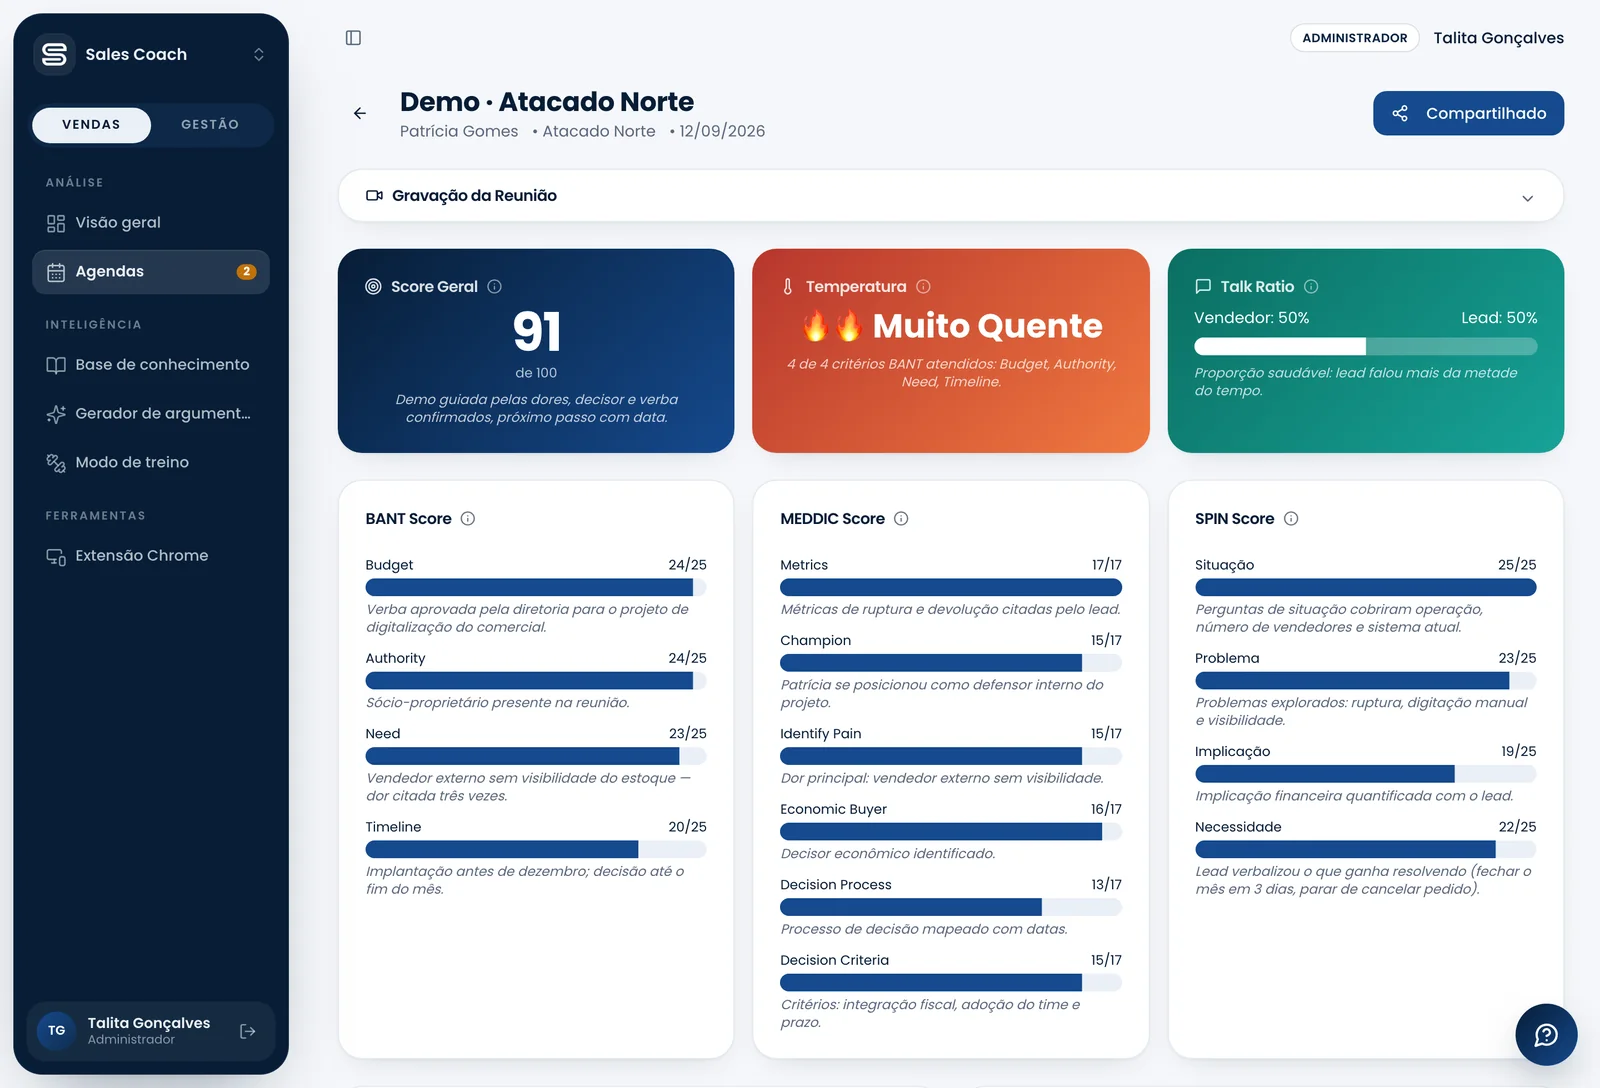
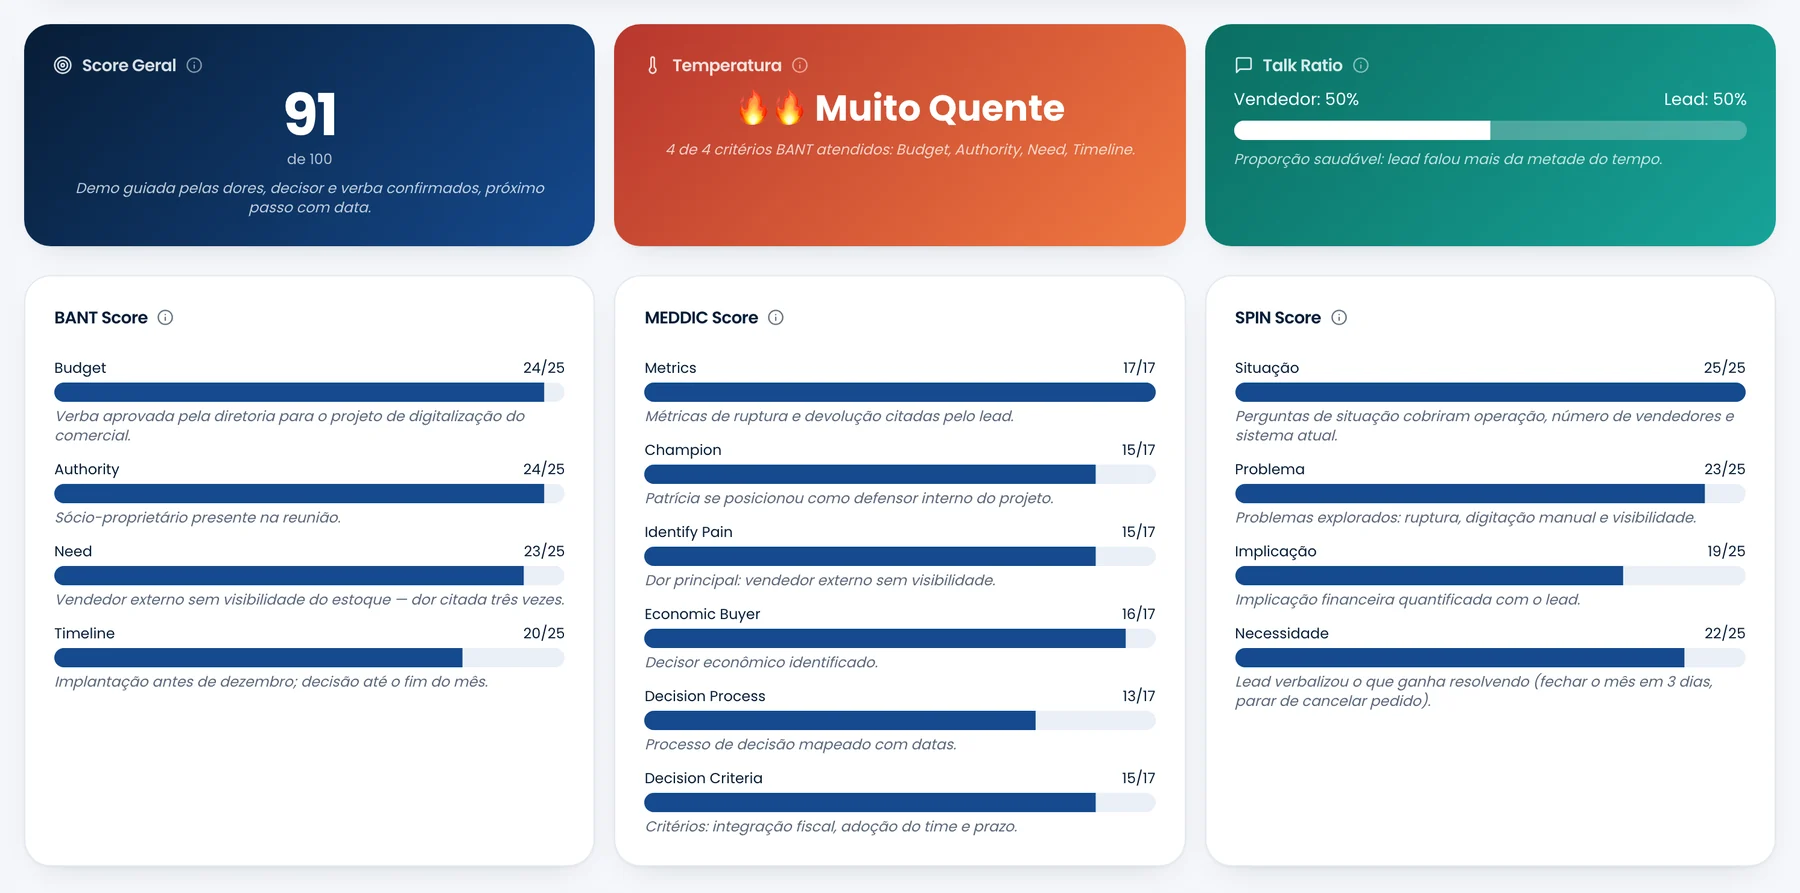
Site: seções claras, imagens grandes com recorte limpo e parallax em camadas
O bloco de produto estava com todas as seções escuras, capturas pequenas e
recortes que cortavam cabeçalho e barra lateral pela metade.

- Capturas refeitas por recorte calculado sobre a caixa dos próprios
  cartões (menu recolhido, viewport 1600), sem nada cortado ao meio e em
  tamanho legível
- Três faixas claras (Produto, Treino, Recursos) alternando com as escuras,
  com transição em degradê — as telas do sistema são claras e agora
  pertencem à página em vez de flutuarem como retângulos brancos
- Imagens saem da coluna de texto: faixas de até 1680px
- Parallax em camadas: texto e imagem se movem em sentidos opostos, com
  selos flutuantes sobre as capturas em ritmo próprio; desligado no mobile
- Listas em .stage-row tinham perdido o marcador personalizado

diff --git a/index.html b/index.html
@@ -45,7 +45,7 @@
   .eyebrow::before { content: ""; width: 26px; height: 1px; background: var(--glow); box-shadow: 0 0 12px var(--glow); }
   .h2 { font-size: clamp(30px, 4.4vw, 56px); font-weight: 700; }
   .lead { font-size: 18px; color: var(--ink-soft); max-width: 58ch; }
-  section { position: relative; padding-block: 120px; }
+  section { position: relative; padding-block: 104px; }
   @media (max-width: 720px) { section { padding-block: 80px; } }
   html, body { overflow-x: clip; }
 
@@ -246,6 +246,66 @@
   .duo { display: grid; grid-template-columns: 1fr 1fr; gap: 24px; align-items: start; margin-top: 46px; }
   @media (max-width: 900px) { .duo { grid-template-columns: 1fr; } }
   .cap-label { margin-top: 12px; font-size: 13px; color: var(--ink-faint); }
+
+
+  /* ── Seções claras: quebram a sequência de blocos escuros e fazem as
+        capturas do sistema (que são claras) parecerem parte da página ── */
+  .paper { background: #EFF3FA; color: #16233A; position: relative; }
+  .paper::before, .paper::after { content: ""; position: absolute; left: 0; right: 0; height: 120px; pointer-events: none; }
+  .paper::before { top: -120px; background: linear-gradient(180deg, var(--navy-0), #EFF3FA); }
+  .paper::after { bottom: -120px; background: linear-gradient(180deg, #EFF3FA, var(--navy-0)); }
+  .paper .h2, .paper h3 { color: #071A34; }
+  .paper .lead, .paper p { color: #4B5A73; }
+  .paper .hl { color: #15498D; -webkit-text-fill-color: currentColor; background: none; }
+  .paper .tag b { color: #15498D; }
+  .paper .tag span { color: #56657F; }
+  .paper .tag i { background: linear-gradient(90deg, #C3D1E6, transparent); }
+  .paper li { color: #1F2D44; }
+  .paper .split li::before { background: #15498D; box-shadow: none; }
+  .paper .note { color: #6B7A93; }
+  .paper .cap-label { color: #6B7A93; }
+  .paper.caps { background: #EFF3FA; }
+  .paper .cap { border-color: rgba(7,26,52,.10); background: #fff; }
+  .paper .hs-slide.active .cap { border-color: rgba(21,73,141,.35); background: linear-gradient(180deg, rgba(21,73,141,.07), #fff); box-shadow: 0 26px 50px -34px rgba(7,26,52,.5); }
+  .paper .cap .idx { color: #15498D; }
+  .paper .cap h3 { color: #071A34; }
+  .paper .cap p { color: #4B5A73; }
+  .paper .hs-count b { color: #071A34; }
+  .paper .hs-count { color: #7A8AA3; }
+  .paper .hs-bar { background: rgba(7,26,52,.12); }
+  .paper .hs-hint { color: #7A8AA3; }
+  .paper .hs-hint i { background: #15498D; }
+  .paper .hs-hint i::after { border-color: #15498D; }
+  .paper .hs-hint i::before { background: #15498D; box-shadow: none; }
+  .paper .frame { border-color: rgba(7,26,52,.10); background: #fff; box-shadow: 0 50px 90px -46px rgba(7,26,52,.55), 0 2px 6px rgba(7,26,52,.06); }
+  .paper .frame::after { box-shadow: none; }
+  .paper .frame-bar { background: #F7F9FD; border-bottom-color: rgba(7,26,52,.08); }
+  .paper .frame-bar i { background: rgba(7,26,52,.14); }
+  .paper .frame-bar span { color: #8494AC; }
+  .paper .shot-glow::before { background: radial-gradient(closest-side, rgba(21,73,141,.16), transparent 70%); }
+
+  /* Faixa larga: a imagem sai da coluna e ocupa quase a tela, tirando o
+     site da monotonia de blocos empilhados do mesmo tamanho. */
+  .bleed { width: min(1460px, 100% - 40px); margin-inline: auto; }
+  .bleed-wide { width: min(1680px, 100% - 32px); margin-inline: auto; }
+
+  /* Selo flutuante sobre a captura, com parallax próprio. */
+  .pin { position: absolute; z-index: 3; display: flex; align-items: center; gap: 10px; padding: 12px 16px; border-radius: 14px; background: rgba(7,26,52,.92); color: #fff; border: 1px solid rgba(143,193,255,.28); box-shadow: 0 24px 50px -22px rgba(0,0,0,.8); font-size: 13px; max-width: 280px; backdrop-filter: blur(8px); }
+  .pin b { color: var(--glow-2); font-weight: 700; }
+  .pin small { display: block; font-size: 10.5px; letter-spacing: .1em; text-transform: uppercase; color: var(--glow-2); font-weight: 700; margin-bottom: 3px; }
+  @media (max-width: 900px) { .pin { position: static; max-width: none; margin-top: 14px; } }
+
+  /* Texto alinhado verticalmente com a imagem grande ao lado. */
+  .stage-row { display: grid; grid-template-columns: .78fr 1.22fr; gap: 64px; align-items: center; }
+  .stage-row.flip .txt { order: 2; }
+  .stage-row h3 { font-size: clamp(26px, 3vw, 40px); font-weight: 700; letter-spacing: -.02em; }
+  .stage-row ul { margin: 24px 0 0; padding: 0; list-style: none; display: grid; gap: 11px; }
+  .stage-row li { position: relative; padding-left: 24px; font-size: 15.5px; color: var(--ink); }
+  .stage-row li::before { content: ""; position: absolute; left: 0; top: 9px; width: 8px; height: 8px; border-radius: 50%; background: var(--glow); box-shadow: 0 0 10px var(--glow); }
+  .stage-row .note { margin-top: 20px; font-size: 13.5px; color: var(--ink-faint); }
+  .paper .stage-row li::before { background: #15498D; box-shadow: none; }
+  .paper .stage-row li { color: #1F2D44; }
+  @media (max-width: 1000px) { .stage-row, .stage-row.flip { grid-template-columns: 1fr; gap: 34px; } .stage-row.flip .txt { order: 0; } }
 
   /* ── Produto: brilhos de fundo ── */
   .product { overflow: visible; }
@@ -506,139 +566,154 @@
   </div>
 </section>
 
-<!-- ── Produto (capturas reais do sistema) ─────────────────────────────── -->
-<section class="product" id="produto">
-  <div class="bg-glow" style="left:-300px;top:8%" data-px="-0.18" aria-hidden="true"></div>
+<!-- ── Produto: claro, imagens largas, parallax em camadas ───────────────── -->
+<section class="product paper" id="produto">
   <div class="wrap">
     <div class="tag reveal"><b>01</b><span>O produto</span><i></i></div>
-    <div class="reveal">
+    <div class="reveal" data-px="0.03">
       <h2 class="h2">Não é transcrição.<br>É a sua <span class="hl">metodologia</span> aplicada em cada conversa.</h2>
-      <p class="lead" style="margin-top:18px">As telas abaixo são do sistema rodando — não são ilustração.</p>
+      <p class="lead" style="margin-top:18px;max-width:54ch">As telas abaixo são do sistema rodando, com dados de uma operação de demonstração — não são ilustração.</p>
     </div>
+  </div>
 
-    <div class="split reveal" style="margin-top:56px">
-      <div class="txt">
-        <h3>Cada reunião sai com nota, temperatura e o que faltou perguntar</h3>
-        <p class="lead">Minutos depois da conversa, vendedor e gestor veem a mesma coisa: score, temperatura pela metodologia da empresa e cada critério com a justificativa tirada do que o lead disse.</p>
+  <!-- faixa larga: a análise ocupa quase toda a tela -->
+  <div class="bleed-wide reveal" style="margin-top:56px;position:relative">
+    <div class="shot-glow" data-px="0.06">
+      <div class="frame">
+        <div class="frame-bar"><i></i><i></i><i></i><span>Análise da reunião · Demo · Atacado Norte</span></div>
+        <img src="assets/app/analise.webp" alt="Score 91, temperatura muito quente e os critérios BANT, MEDDIC e SPIN, cada um com a justificativa" loading="lazy" width="1800" height="893">
+      </div>
+    </div>
+    <div class="pin" style="left:-28px;bottom:9%" data-px="-0.14"><div><small>Cada nota tem evidência</small>Não é um número solto: é a <b>frase do lead</b> que justifica o critério.</div></div>
+  </div>
+
+  <div class="wrap" style="margin-top:92px">
+    <div class="stage-row reveal">
+      <div class="txt" data-px="0.05">
+        <h3>Nota, temperatura e o que faltou perguntar</h3>
+        <p class="lead">Minutos depois da conversa, vendedor e gestor veem a mesma coisa — e ninguém precisa reabrir a gravação para discordar.</p>
         <ul>
-          <li>BANT, MEDDIC e SPIN prontos — ou os seus critérios, com pesos</li>
-          <li>Cada nota vem com a frase que a justifica, não com um número solto</li>
+          <li>BANT, MEDDIC e SPIN prontos, ou os seus critérios com pesos</li>
           <li>Talk ratio: quanto o vendedor falou e quanto o lead falou</li>
-        </ul>
-      </div>
-      <div class="shot-glow" data-px="0.05">
-        <div class="frame">
-          <div class="frame-bar"><i></i><i></i><i></i><span>Análise da reunião</span></div>
-          <img src="assets/app/analise.webp" alt="Tela de análise de uma reunião: score 91, temperatura muito quente e os critérios BANT, MEDDIC e SPIN com justificativa" loading="lazy" width="1600" height="1088">
-        </div>
-      </div>
-    </div>
-
-    <div class="split flip reveal" style="margin-top:110px">
-      <div class="txt">
-        <h3>O que foi bem, o que faltou e o próximo passo</h3>
-        <p class="lead">A análise não para na nota. Ela aponta o que o vendedor fez certo, o que deixou passar e o que fazer na sequência — e confere se o discurso bateu com o portfólio da empresa.</p>
-        <ul>
-          <li>Oportunidade perdida: o item da base que resolvia a dor e não foi citado</li>
-          <li>Sugestões de cross-sell a partir do que o lead falou</li>
-          <li>Aderência ao portfólio, com preço e prazo conferidos contra a tabela</li>
+          <li>Objeções e sinais de compra recortados da própria fala</li>
         </ul>
       </div>
       <div class="shot-glow" data-px="-0.05">
         <div class="frame">
-          <div class="frame-bar"><i></i><i></i><i></i><span>Insights e aderência à base</span></div>
-          <img src="assets/app/insights.webp" alt="Insights da reunião, próximos passos sugeridos e score de aderência à base de conhecimento" loading="lazy" width="1600" height="738">
+          <div class="frame-bar"><i></i><i></i><i></i><span>Agendas</span></div>
+          <img src="assets/app/agendas.webp" alt="Lista de agendas com score, temperatura e status de cada reunião" loading="lazy" width="1600" height="751">
         </div>
       </div>
     </div>
+  </div>
 
-    <div class="split reveal" style="margin-top:110px">
-      <div class="txt">
-        <h3>O gestor vê o time inteiro sem ouvir uma gravação</h3>
-        <p class="lead">Score médio, evolução mês a mês por executivo, distribuição de temperatura das agendas e em quais critérios o time mais falha. Em vinte minutos, o que levaria uma semana de escuta.</p>
+  <div class="bleed reveal" style="margin-top:92px;position:relative">
+    <div class="shot-glow" data-px="0.04">
+      <div class="frame">
+        <div class="frame-bar"><i></i><i></i><i></i><span>Insights e próximos passos</span></div>
+        <img src="assets/app/insights.webp" alt="O que foi bem, o que faltou e os próximos passos sugeridos pela análise" loading="lazy" width="1600" height="323">
+      </div>
+    </div>
+    <div class="pin" style="right:-14px;bottom:-26px" data-px="0.14"><div><small>Oportunidade perdida</small>O item do portfólio que <b>resolvia a dor</b> e ninguém citou.</div></div>
+  </div>
+
+  <div class="wrap" style="margin-top:100px">
+    <div class="stage-row flip reveal">
+      <div class="txt" data-px="0.05">
+        <h3>O gestor vê o time inteiro<br>sem ouvir uma gravação</h3>
+        <p class="lead">Score médio, evolução mês a mês por executivo, distribuição de temperatura e em quais critérios o time mais falha. Em vinte minutos, o que levaria uma semana de escuta.</p>
         <ul>
           <li>Ranking por vendedor e comparação entre períodos</li>
           <li>Onde o discurso perde pontos, em todo mundo ao mesmo tempo</li>
           <li>Análise compartilhável por link, com prazo e revogação</li>
         </ul>
       </div>
-      <div class="shot-glow" data-px="0.05">
+      <div class="shot-glow" data-px="-0.06">
         <div class="frame">
           <div class="frame-bar"><i></i><i></i><i></i><span>Visão do gestor</span></div>
-          <img src="assets/app/dashboard.webp" alt="Painel do gestor com total de agendas, score médio, taxa de reuniões quentes e evolução por executivo" loading="lazy" width="1600" height="1000">
+          <img src="assets/app/dashboard.webp" alt="Painel do gestor com indicadores, evolução de scores por executivo e distribuição de temperatura" loading="lazy" width="1800" height="941">
         </div>
       </div>
     </div>
   </div>
 </section>
 
-<div class="divider"></div>
-
-<!-- ── Coach ao vivo ────────────────────────────────────────────────────── -->
-<section class="band" id="ao-vivo">
+<!-- ── Coach ao vivo (escuro, contraste depois do claro) ─────────────────── -->
+<section id="ao-vivo">
+  <div class="bg-glow" style="left:-260px;top:18%" data-px="-0.16" aria-hidden="true"></div>
   <div class="wrap">
     <div class="tag reveal"><b>02</b><span>Durante a reunião</span><i></i></div>
-    <div class="split reveal">
-      <div class="txt">
+    <div class="stage-row reveal">
+      <div class="txt" data-px="0.04">
         <h3>O coach está na reunião.<br>Na tela. Na hora.</h3>
-        <p class="lead">A extensão acompanha a conversa no Meet ou no Teams e mostra ao vendedor a frase exata para dizer nos próximos segundos — pela metodologia da empresa, com o portfólio certo, sem inventar preço ou funcionalidade.</p>
+        <p class="lead">A extensão acompanha a conversa no Meet ou no Teams e mostra a frase exata para dizer nos próximos segundos — pela metodologia da empresa, com o portfólio certo, sem inventar preço nem funcionalidade.</p>
         <ul>
           <li>Objeção ou sinal de compra que acabou de surgir vem primeiro</li>
-          <li>Critério de qualificação ainda não coberto vira a próxima pergunta</li>
-          <li>Produto, dado e diferencial citados pelo nome que está na base</li>
+          <li>Critério ainda não coberto vira a próxima pergunta</li>
+          <li>Produto e dado citados pelo nome que está na base</li>
           <li>Painel discreto, sem trocar de tela, sem o lead perceber</li>
         </ul>
       </div>
-      <div class="shot-glow" style="max-width:420px;margin-inline:auto" data-px="-0.06">
+      <div class="shot-glow" style="max-width:380px;margin-inline:auto;position:relative" data-px="-0.08">
         <div class="frame">
           <img src="assets/app/extensao.webp" alt="Painel da extensão durante a reunião, com a dica FALE AGORA e a transcrição ao vivo" loading="lazy" width="760" height="1302">
         </div>
+        <div class="pin" style="left:-150px;bottom:14%" data-px="0.16"><div><small>Fale agora</small>Resposta pronta para a objeção que <b>acabou de aparecer</b>.</div></div>
       </div>
     </div>
   </div>
 </section>
 
-<div class="divider"></div>
-
-<!-- ── Modo de treino ───────────────────────────────────────────────────── -->
-<section id="treino">
-  <div class="bg-glow" style="right:-320px;top:20%" data-px="0.15" aria-hidden="true"></div>
+<!-- ── Modo de treino (claro) ────────────────────────────────────────────── -->
+<section class="paper" id="treino">
   <div class="wrap">
     <div class="tag reveal"><b>03</b><span>Antes da reunião</span><i></i></div>
-    <div class="reveal">
+    <div class="reveal" data-px="0.03">
       <h2 class="h2">Treine com um lead simulado<br>antes de queimar o <span class="hl">de verdade</span>.</h2>
-      <p class="lead" style="margin-top:18px">A IA assume o papel do cliente, com uma dor do seu catálogo e as objeções que realmente apareceram nas suas reuniões. Por texto ou por voz. No fim, a conversa recebe a mesma nota e o mesmo feedback de uma reunião real.</p>
+      <p class="lead" style="margin-top:18px;max-width:58ch">A IA assume o papel do cliente, com uma dor do seu catálogo e as objeções que realmente apareceram nas suas reuniões. Por texto ou por voz.</p>
     </div>
-    <div class="duo">
-      <div class="reveal">
-        <div class="frame">
-          <div class="frame-bar"><i></i><i></i><i></i><span>Treino em andamento</span></div>
-          <img src="assets/app/treino-conversa.webp" alt="Conversa de treino: o lead simulado levanta a objeção de que o time não usou a ferramenta anterior" loading="lazy" width="1200" height="743">
-        </div>
-        <p class="cap-label">O lead simulado não facilita — ele levanta as objeções que o seu time ouve de verdade.</p>
+  </div>
+
+  <div class="bleed reveal" style="margin-top:52px;position:relative">
+    <div class="shot-glow" data-px="0.05">
+      <div class="frame">
+        <div class="frame-bar"><i></i><i></i><i></i><span>Treino em andamento</span></div>
+        <img src="assets/app/treino-conversa.webp" alt="Conversa de treino em que o lead simulado diz que já testou uma ferramenta parecida e a equipe não se adaptou" loading="lazy" width="1500" height="593">
       </div>
-      <div class="reveal">
+    </div>
+    <div class="pin" style="left:-16px;bottom:-24px" data-px="-0.14"><div><small>Não facilita</small>Ele levanta as objeções que o <b>seu time ouve de verdade</b>.</div></div>
+  </div>
+
+  <div class="wrap" style="margin-top:92px">
+    <div class="stage-row flip reveal">
+      <div class="txt" data-px="0.05">
+        <h3>No fim, a mesma nota<br>de uma reunião real</h3>
+        <p class="lead">A conversa de treino passa pelo mesmo motor de análise das reuniões de verdade: score, temperatura, critério a critério e o que faltou — com a linguagem que o time já conhece do painel.</p>
+        <ul>
+          <li>Quem entrou ontem pratica a conversa difícil dez vezes antes da primeira</li>
+          <li>Sem gastar um lead real no treinamento</li>
+          <li>O gestor acompanha a evolução dos treinos junto com a das reuniões</li>
+        </ul>
+      </div>
+      <div class="shot-glow" data-px="-0.05">
         <div class="frame">
           <div class="frame-bar"><i></i><i></i><i></i><span>Avaliação do treino</span></div>
-          <img src="assets/app/treino-nota.webp" alt="Avaliação do treino com score, temperatura, critérios da metodologia e o que faltou" loading="lazy" width="1200" height="934">
+          <img src="assets/app/treino-nota.webp" alt="Avaliação do treino com score, temperatura e número de falas trocadas" loading="lazy" width="1500" height="501">
         </div>
-        <p class="cap-label">Mesma metodologia da reunião real: critério a critério, com o que faltou.</p>
       </div>
     </div>
-    <p class="split note reveal" style="margin-top:28px">Quem entrou ontem pratica a conversa difícil dez vezes antes de fazer a primeira — sem gastar um lead nisso.</p>
   </div>
 </section>
 
-<div class="divider"></div>
-
-<!-- ── Assistente ───────────────────────────────────────────────────────── -->
-<section class="band" id="assistente">
+<!-- ── Assistente (escuro: o painel é escuro e conversa com o fundo) ─────── -->
+<section id="assistente">
+  <div class="bg-glow" style="right:-300px;top:10%" data-px="0.16" aria-hidden="true"></div>
   <div class="wrap">
     <div class="tag reveal"><b>04</b><span>Depois da reunião</span><i></i></div>
-    <div class="split flip reveal" style="grid-template-columns:1.05fr .95fr">
-      <div class="txt">
-        <h3>Pergunte. Ele já leu<br>todas as reuniões.</h3>
-        <p class="lead">Um assistente em qualquer tela do sistema, que consulta as agendas de verdade antes de responder — não um resumo genérico. Pergunte em português e ele busca, cruza e responde.</p>
+    <div class="stage-row reveal" style="grid-template-columns:1fr .62fr">
+      <div class="txt" data-px="0.04">
+        <h2 class="h2">Pergunte.<br>Ele já leu <span class="hl">todas as reuniões</span>.</h2>
+        <p class="lead" style="margin-top:18px">Um assistente em qualquer tela, que consulta as agendas de verdade antes de responder — não um resumo genérico. Pergunte em português; ele busca, cruza e responde citando as reuniões pelo nome.</p>
         <ul>
           <li>"Quais as 3 agendas mais quentes agora?"</li>
           <li>"Qual o score médio do time este mês?"</li>
@@ -647,17 +722,14 @@
         </ul>
         <p class="note">Respeita o papel de quem pergunta: vendedor vê o que é dele, gestor e admin veem o time.</p>
       </div>
-      <div class="shot-glow" data-px="0.05">
+      <div class="shot-glow" style="max-width:360px;margin-inline:auto" data-px="-0.07">
         <div class="frame">
-          <div class="frame-bar"><i></i><i></i><i></i><span>Assistente de vendas</span></div>
-          <img src="assets/app/assistente.webp" alt="Assistente respondendo quais são as agendas mais quentes, citando as reuniões reais que aparecem na lista atrás" loading="lazy" width="1200" height="882">
+          <img src="assets/app/assistente.webp" alt="Assistente listando as três agendas mais quentes, com nome do lead, data, vendedor e score de cada uma" loading="lazy" width="760" height="1120">
         </div>
       </div>
     </div>
   </div>
 </section>
-
-<div class="divider"></div>
 
 <!-- ── Antes / depois ───────────────────────────────────────────────────── -->
 <section class="versus">
@@ -719,7 +791,7 @@
 </section>
 
 <!-- ── Capacidades ──────────────────────────────────────────────────────── -->
-<section class="caps hs" id="recursos" data-hs="free">
+<section class="caps hs paper" id="recursos" data-hs="free">
   <div class="hs-pin">
     <div class="wrap">
       <div class="hs-head">
@@ -907,7 +979,12 @@
   // ── Parallax por camada (data-px = fator) ──
   var pxEls = [].slice.call(document.querySelectorAll("[data-px]"));
   function parallax() {
-    if (REDUCE) return;
+    // No mobile os elementos flutuantes viram estáticos no CSS; manter o
+    // deslocamento aqui só desalinharia o layout.
+    if (REDUCE || window.innerWidth <= 900) {
+      for (var j = 0; j < pxEls.length; j++) pxEls[j].style.transform = "";
+      return;
+    }
     var vh = window.innerHeight;
     for (var i = 0; i < pxEls.length; i++) {
       var el = pxEls[i], r = el.getBoundingClientRect();
